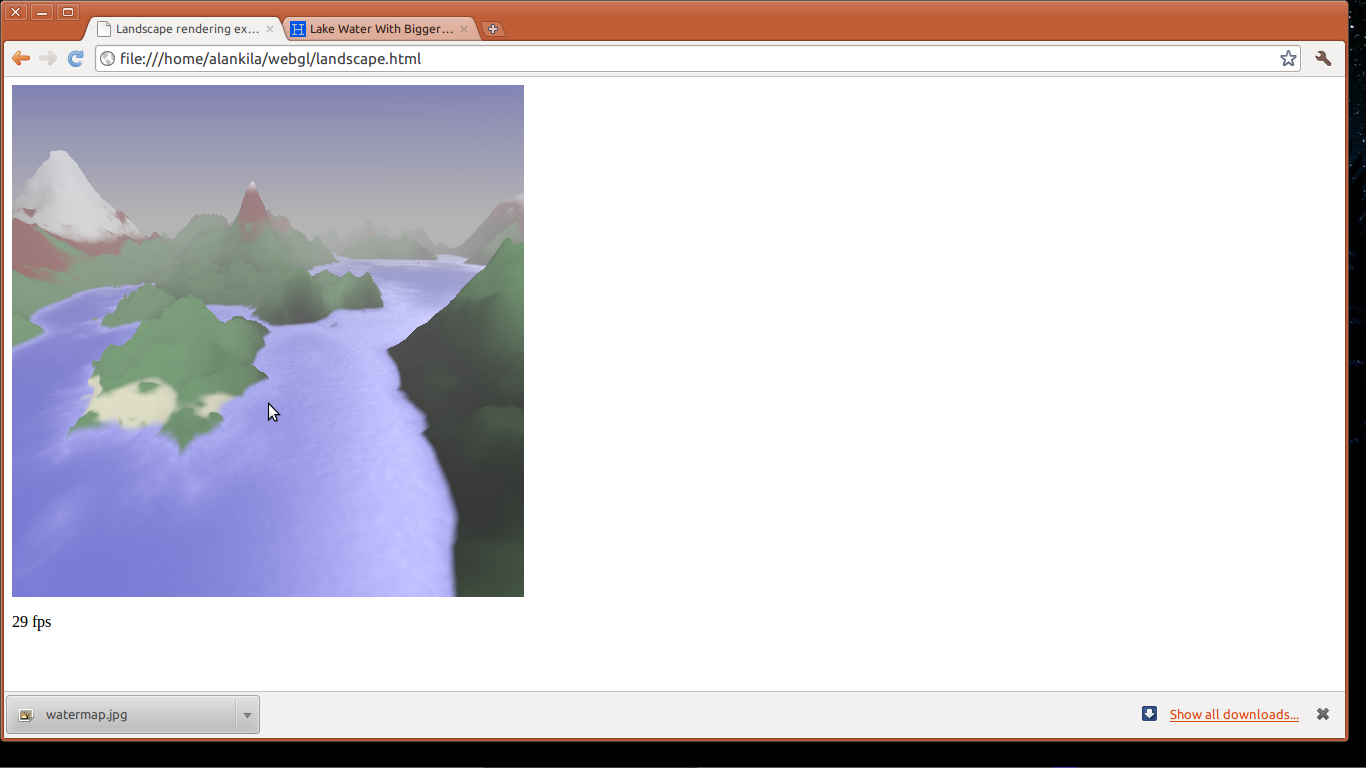
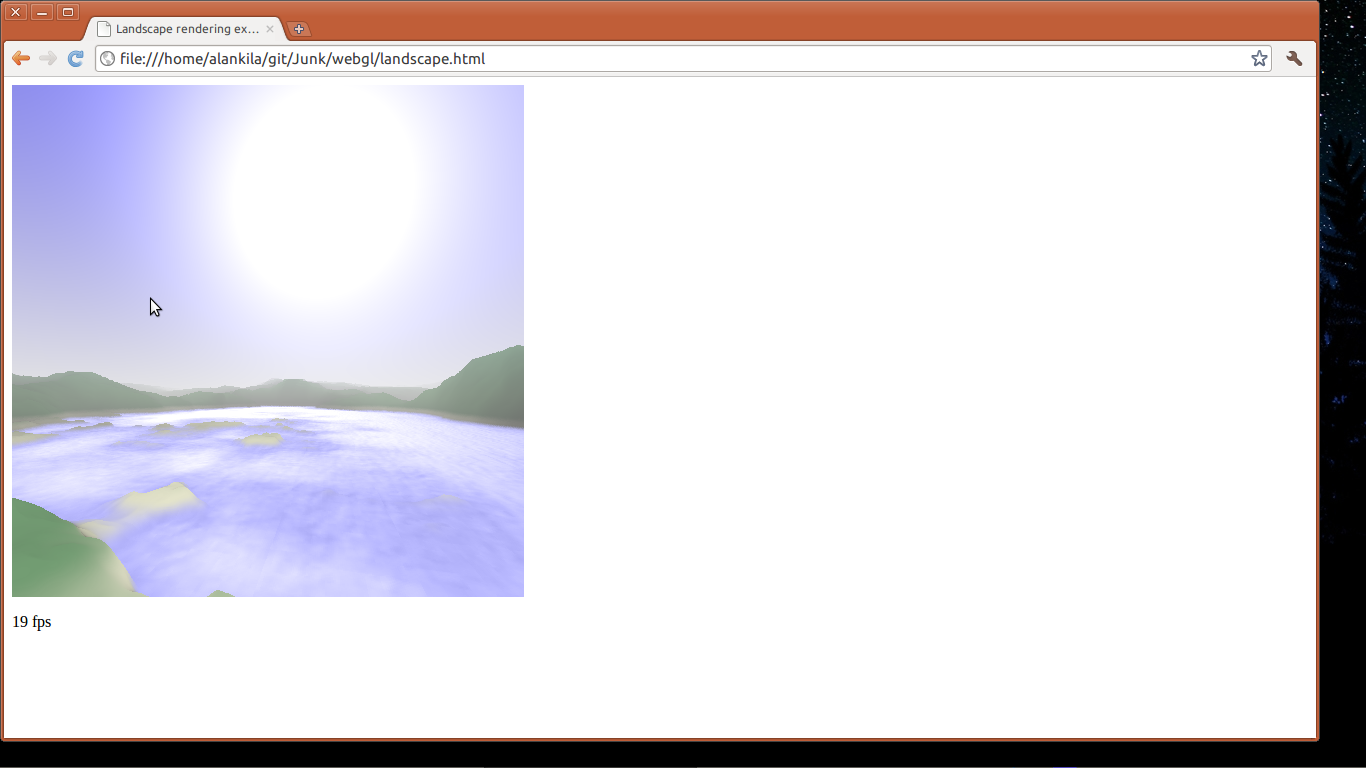
Upd

Changed region(s): [[0.0, 0.0, 0.3997, 0.7812], [0.8302, 0.0, 1.0, 0.9688], [0.0, 0.9062, 0.2152, 0.9688]]

diff --git a/webgl/landscape.html b/webgl/landscape.html
@@ -26,8 +26,10 @@ const int RAYITERATIONS = 128;
 const float WATER_LEVEL = 0.25;
 /* When estimating safe distance for ray marching, scale distance to current scenery point by this value. There's probably no analytic expression for this. */
 const float MARCH_SPEED = 0.5;
+/* Level Of Detail: how rapidly terrain loses features at distance. */
+const float LOD = 0.7;
 /* When ray reaches close enough to terrain, stop marching */
-const float STOPCONDITION = 0.005;
+const float STOPCONDITION = 0.004;
 /* Render distance. */
 const float FOG = 4.;
 /* Direction to infinitely far-away Sun */
@@ -41,7 +43,7 @@ float getNoise(in float x, in float y) {
 
 /* This gives quintic-interpolated noise from 2d coordinates.
  * Derivation by Inigo Quilez. */
-vec3 interpolatedNoise(in vec2 pos) {
+vec3 getInterpolatedNoise(in vec2 pos) {
     float i = floor(pos.x) / 256.;
     float j = floor(pos.y) / 256.;
     float u = fract(pos.x);
@@ -77,7 +79,7 @@ float getHeight(in vec2 pos, in int maxLevel) {
     float dy = 0.;
     for (int i = 0; i < MAPITERATIONS; i ++) {
         /* Modified Perlin noise according to Inigo Quilez. */
-        vec3 n = interpolatedNoise(pos);
+        vec3 n = getInterpolatedNoise(pos);
         dx += n.y;
         dy += n.z;
         o += w * n.x / (1. + dx * dx + dy * dy);
@@ -97,7 +99,7 @@ vec3 getHeightDerivate(in vec2 pos, in int maxLevel) {
     float dy = 0.;
     for (int i = 0; i < MAPITERATIONS; i ++) {
         /* Modified Perlin noise according to Inigo Quilez. */
-        vec3 n = interpolatedNoise(pos);
+        vec3 n = getInterpolatedNoise(pos);
         dx += n.y;
         dy += n.z;
         d += n.yz * w / (1. + dx * dx + dy * dy);
@@ -125,8 +127,8 @@ vec3 intersectTerrain(in vec3 pos, in vec3 dir, out float t) {
 
     /* Dynamic LOD during marching:
      * After distance to scene has been acquired, update LOD. */
-    t = 0.1;
-    int maxLevel = MAPITERATIONS;
+    t = 0.0;
+    int maxLevel = MAPITERATIONS/2;
     for (int i = 0; i < RAYITERATIONS; i ++) {
         float groundHeight = getHeight(pos.xy, maxLevel);
         float height = groundHeight < 0.24 ? 0.24 : groundHeight;
@@ -135,7 +137,7 @@ vec3 intersectTerrain(in vec3 pos, in vec3 dir, out float t) {
         float safeDist = dz * MARCH_SPEED;
         t += safeDist;
         pos += safeDist * dir;
-        maxLevel = int(1.0 / (abs(dz) * t));
+        maxLevel = int(LOD / (abs(dz) * t));
         
         /* Are we close enough to terrain? */
         if (abs(dz) < STOPCONDITION * t) {
@@ -151,16 +153,15 @@ vec3 intersectTerrain(in vec3 pos, in vec3 dir, out float t) {
              * This should probably be a texture lookup. */
             float beachOrGreen = smoothstep(0.25, 0.27, height);
 
-            /* Adjust foliage levels by terrain tilt. */
+            /* Adjust foliage/snow levels by terrain tilt. */
             float tilt = dot(d.xy, d.xy);
-            height += tilt * 3.;
-
-            float greenOrBarren = smoothstep(0.56, 0.60, height);
-            float barrenOrSnow = smoothstep(0.66, 0.68, height);
+            float greenOrBarren = smoothstep(0.58, 0.60, height + tilt * 3.);
+            float barrenOrSnow = smoothstep(0.66, 0.68, height - tilt * 6.);
 
             terrain = mix(vec3(0.9, 0.9, 0.7), vec3(0.2, 0.4, 0.2), beachOrGreen);
-            terrain = mix(terrain, vec3(0.4, 0.1, 0.1) * getNoise(pos.x, pos.y), greenOrBarren);
+            terrain = mix(terrain, vec3(0.4, 0.1, 0.1) * getInterpolatedNoise(pos.xy * 512.).x, greenOrBarren);
             terrain = mix(terrain, vec3(1.0, 1.0, 1.0), barrenOrSnow);
+
             /* Apply lighting for objects above surface. */
             terrain *= diffuse * ao;
 
